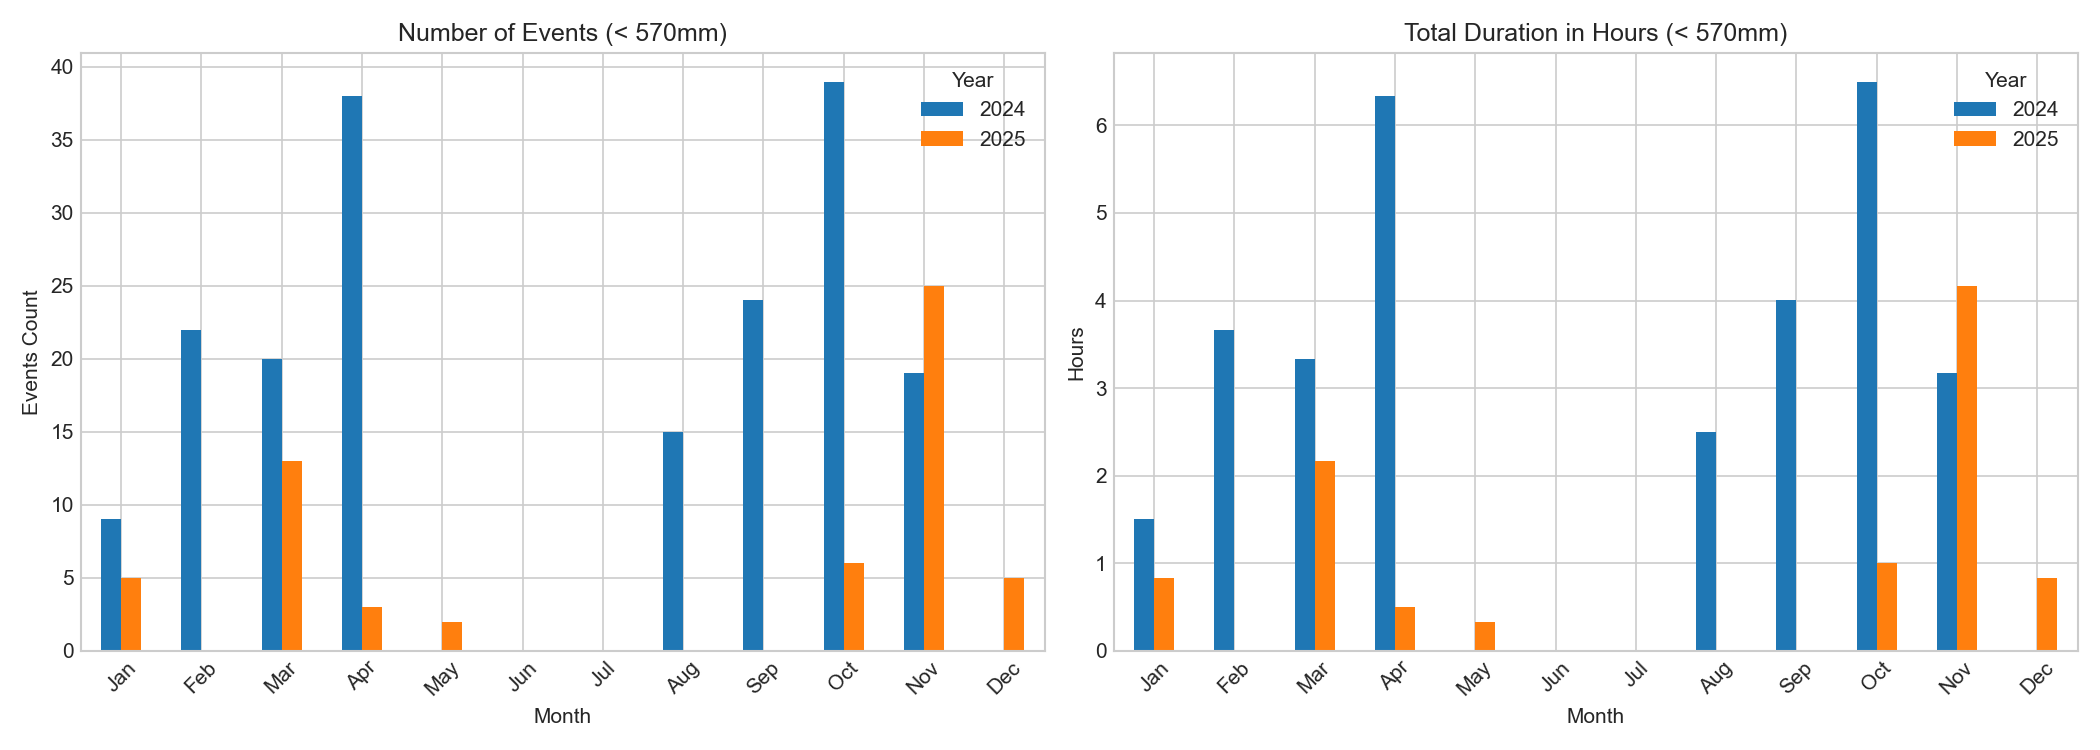
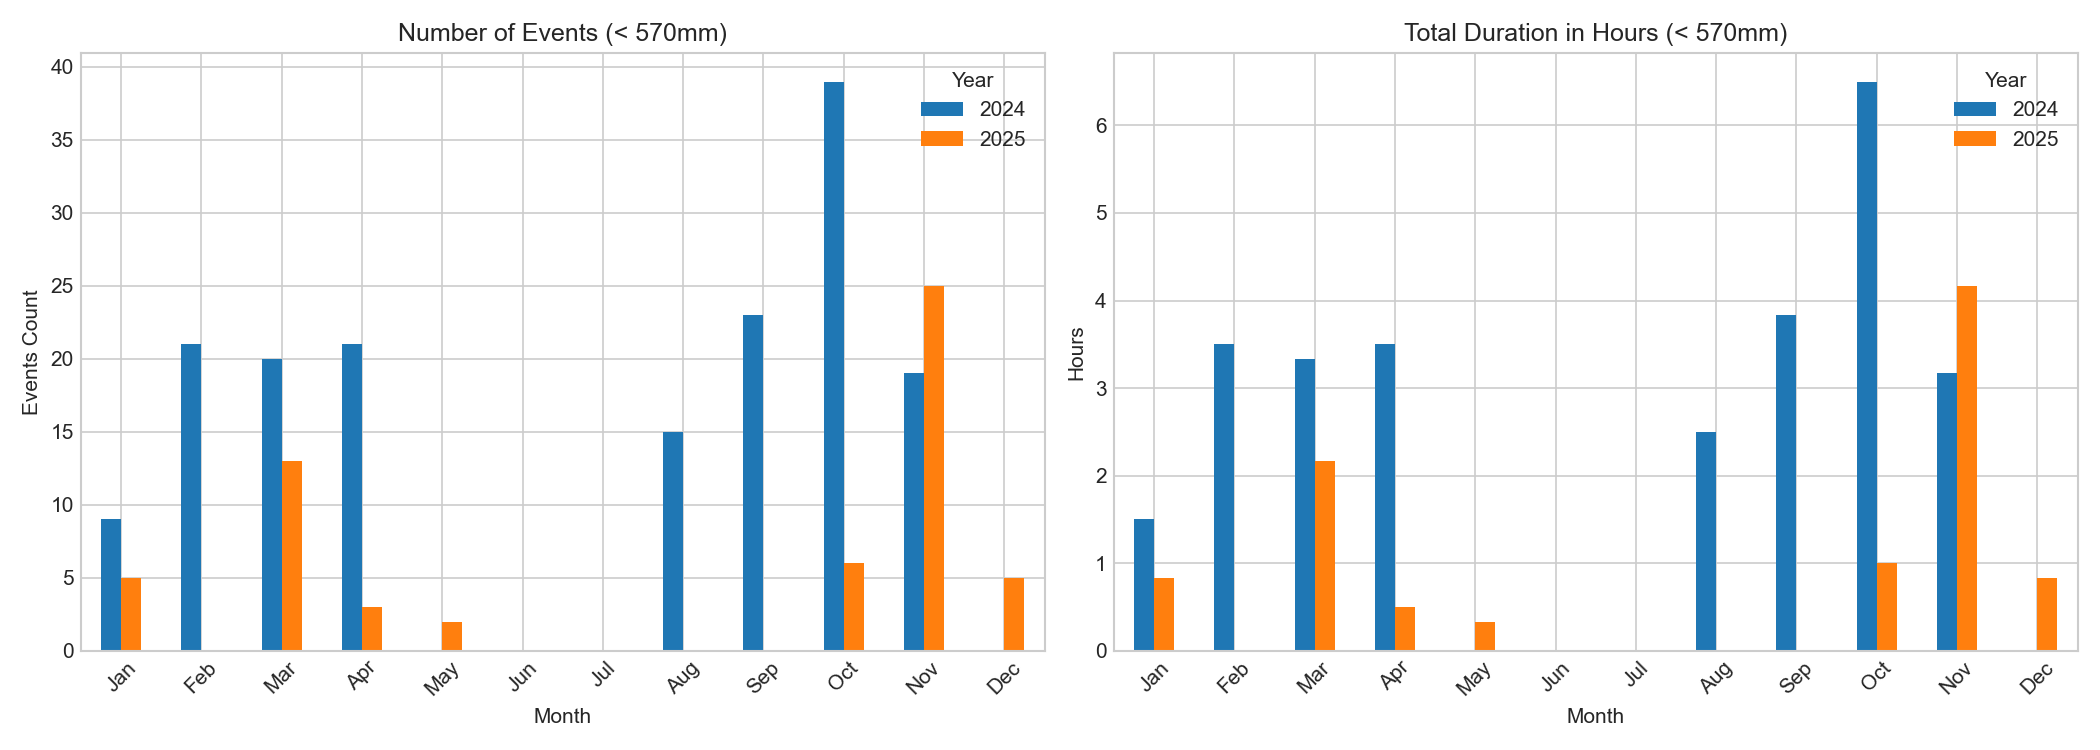
fix: Corrected erroneous 2024 data points, updated data quality metrics and flood event statistics in the readme, and regenerated comparison plots.

diff --git a/data/influxdb/compare_years.py b/data/influxdb/compare_years.py
@@ -18,6 +18,14 @@ def process_file(file_path):
     df = df.sort_values('_time').reset_index(drop=True)
     
     time_diff_mins = df['_time'].diff(-1).abs().dt.total_seconds() / 60.0
+    
+    # Calculate missing data
+    # Standard interval is 10 mins. If gap > 15 mins, we have missing data.
+    df['gap_mins'] = 0.0
+    mask_gap = time_diff_mins > 15
+    df.loc[mask_gap, 'gap_mins'] = time_diff_mins[mask_gap] - 10.0
+    df['is_gap'] = mask_gap
+    
     df['duration_mins'] = time_diff_mins.fillna(10.0)
     df.loc[df['duration_mins'] > 15, 'duration_mins'] = 10.0
     
@@ -39,6 +47,40 @@ def generate_report(dfs, output_dir):
     
     readme_content = f"# Water Height Comparison ({title_years})\n\n"
     readme_content += "This document compares the sonar distance data across the captured years, tracking flood events using the 830mm and 570mm thresholds.\n\n"
+    
+    # ---------------------------------------------------------
+    # DATA QUALITY / MISSING DATA SECTION
+    # ---------------------------------------------------------
+    readme_content += "## Data Quality / Missing Data\n\n"
+    readme_content += "The nominal recording interval is 10 minutes. Any gap larger than 15 minutes between consecutive readings is considered missing data.\n\n"
+    
+    gap_rows = []
+    for year in years_present:
+        y_df = df[df['year'] == year]
+        if y_df.empty:
+            continue
+            
+        total_gaps = y_df['is_gap'].sum()
+        total_missing_hrs = y_df['gap_mins'].sum() / 60.0
+        max_gap_hrs = (y_df['gap_mins'].max() + 10.0) / 60.0 if total_gaps > 0 else 0
+        
+        total_hrs_in_year = 8784 if (year % 4 == 0 and (year % 100 != 0 or year % 400 == 0)) else 8760
+        pct_missed = (total_missing_hrs / total_hrs_in_year) * 100.0
+        
+        gap_rows.append([
+            str(year),
+            str(total_gaps),
+            f"{total_missing_hrs:.1f}",
+            f"{max_gap_hrs:.1f}",
+            f"{pct_missed:.2f}%"
+        ])
+        
+    headers_gaps = ["Year", "Number of Gaps", "Total Missing Time (Hrs)", "Longest Gap (Hrs)", "% of Year Missed"]
+    readme_content += "| " + " | ".join(headers_gaps) + " |\n"
+    readme_content += "|" + "|".join(["---"] * len(headers_gaps)) + "|\n"
+    for row in gap_rows:
+        readme_content += "| " + " | ".join(row) + " |\n"
+    readme_content += "\n"
     
     thresholds = [830, 570]
     
@@ -76,7 +118,6 @@ def generate_report(dfs, output_dir):
             avg_duration = events['duration'].mean()
             std_duration = events['duration'].std() if total_events > 1 else 0.0
             
-            # Daytime is 8 AM to 7 PM (hours 8-18)
             daytime_events = events[(events['start_hour'] >= 8) & (events['start_hour'] < 19)].shape[0]
             daytime_pct = (daytime_events / total_events) * 100 if total_events > 0 else 0
             

diff --git a/data/influxdb/readme.md b/data/influxdb/readme.md
@@ -2,12 +2,21 @@
 
 This document compares the sonar distance data across the captured years, tracking flood events using the 830mm and 570mm thresholds.
 
+## Data Quality / Missing Data
+
+The nominal recording interval is 10 minutes. Any gap larger than 15 minutes between consecutive readings is considered missing data.
+
+| Year | Number of Gaps | Total Missing Time (Hrs) | Longest Gap (Hrs) | % of Year Missed |
+|---|---|---|---|---|
+| 2024 | 503 | 3705.8 | 22.3 | 42.19% |
+| 2025 | 91 | 216.2 | 75.8 | 2.47% |
+
 ## Threshold: < 830mm
 
 ### Yearly Statistics
 | Year | Total Events | Total Duration (Hrs) | Avg Duration (Mins) | Std Dev (Mins) | Daytime Events (8am-7pm) % |
 |---|---|---|---|---|---|
-| 2024 | 628 | 104.66 | 10.00 | 0.02 | 51.1% |
+| 2024 | 561 | 93.50 | 10.00 | 0.02 | 50.8% |
 | 2025 | 408 | 68.00 | 10.00 | 0.01 | 54.7% |
 
 ![Comparison Plot 830mm](comparison_plot_830mm.png)
@@ -16,14 +25,14 @@ This document compares the sonar distance data across the captured years, tracki
 | Month | 2024 | 2025 |
 |---|---|---|
 | Jan | 40 | 32 |
-| Feb | 84 | 13 |
+| Feb | 78 | 13 |
 | Mar | 76 | 60 |
-| Apr | 123 | 50 |
+| Apr | 64 | 50 |
 | May | 35 | 33 |
 | Jun | 0 | 11 |
 | Jul | 13 | 4 |
 | Aug | 40 | 8 |
-| Sep | 67 | 40 |
+| Sep | 65 | 40 |
 | Oct | 83 | 69 |
 | Nov | 48 | 63 |
 | Dec | 19 | 25 |
@@ -32,14 +41,14 @@ This document compares the sonar distance data across the captured years, tracki
 | Month | 2024 | 2025 |
 |---|---|---|
 | Jan | 6.67 | 5.33 |
-| Feb | 14.00 | 2.17 |
+| Feb | 13.00 | 2.17 |
 | Mar | 12.67 | 10.00 |
-| Apr | 20.50 | 8.33 |
+| Apr | 10.67 | 8.33 |
 | May | 5.83 | 5.50 |
 | Jun | 0.00 | 1.83 |
 | Jul | 2.17 | 0.67 |
 | Aug | 6.67 | 1.33 |
-| Sep | 11.17 | 6.67 |
+| Sep | 10.83 | 6.67 |
 | Oct | 13.83 | 11.50 |
 | Nov | 8.00 | 10.50 |
 | Dec | 3.17 | 4.17 |
@@ -49,7 +58,7 @@ This document compares the sonar distance data across the captured years, tracki
 ### Yearly Statistics
 | Year | Total Events | Total Duration (Hrs) | Avg Duration (Mins) | Std Dev (Mins) | Daytime Events (8am-7pm) % |
 |---|---|---|---|---|---|
-| 2024 | 186 | 31.00 | 10.00 | 0.03 | 52.2% |
+| 2024 | 167 | 27.84 | 10.00 | 0.03 | 50.3% |
 | 2025 | 59 | 9.83 | 10.00 | 0.02 | 64.4% |
 
 ![Comparison Plot 570mm](comparison_plot_570mm.png)
@@ -58,14 +67,14 @@ This document compares the sonar distance data across the captured years, tracki
 | Month | 2024 | 2025 |
 |---|---|---|
 | Jan | 9 | 5 |
-| Feb | 22 | 0 |
+| Feb | 21 | 0 |
 | Mar | 20 | 13 |
-| Apr | 38 | 3 |
+| Apr | 21 | 3 |
 | May | 0 | 2 |
 | Jun | 0 | 0 |
 | Jul | 0 | 0 |
 | Aug | 15 | 0 |
-| Sep | 24 | 0 |
+| Sep | 23 | 0 |
 | Oct | 39 | 6 |
 | Nov | 19 | 25 |
 | Dec | 0 | 5 |
@@ -74,14 +83,14 @@ This document compares the sonar distance data across the captured years, tracki
 | Month | 2024 | 2025 |
 |---|---|---|
 | Jan | 1.50 | 0.83 |
-| Feb | 3.67 | 0.00 |
+| Feb | 3.50 | 0.00 |
 | Mar | 3.33 | 2.17 |
-| Apr | 6.33 | 0.50 |
+| Apr | 3.50 | 0.50 |
 | May | 0.00 | 0.33 |
 | Jun | 0.00 | 0.00 |
 | Jul | 0.00 | 0.00 |
 | Aug | 2.50 | 0.00 |
-| Sep | 4.00 | 0.00 |
+| Sep | 3.83 | 0.00 |
 | Oct | 6.50 | 1.00 |
 | Nov | 3.17 | 4.17 |
 | Dec | 0.00 | 0.83 |
